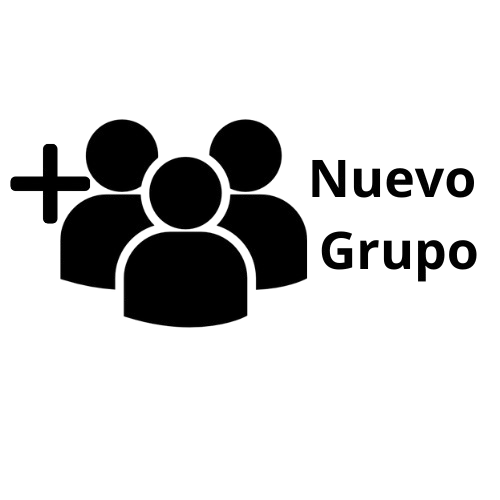
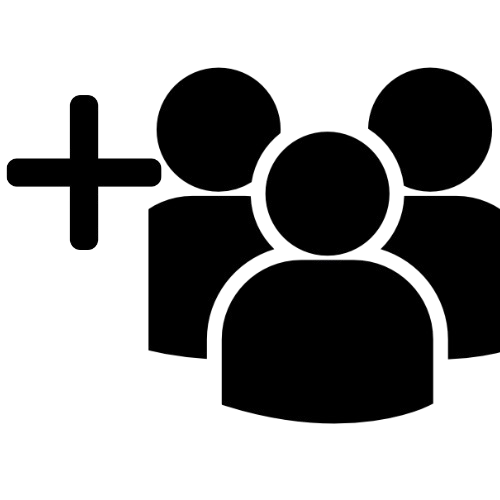
Added the buton of new group and new friend (not programed)

diff --git a/Split Wise Project/Form_Friends.Designer.cs b/Split Wise Project/Form_Friends.Designer.cs
@@ -28,31 +28,34 @@
         /// </summary>
         private void InitializeComponent()
         {
-            button1 = new Button();
+            pictureBox1 = new PictureBox();
+            ((System.ComponentModel.ISupportInitialize)pictureBox1).BeginInit();
             SuspendLayout();
             // 
-            // button1
+            // pictureBox1
             // 
-            button1.Location = new Point(137, 84);
-            button1.Name = "button1";
-            button1.Size = new Size(75, 23);
-            button1.TabIndex = 0;
-            button1.Text = "button1";
-            button1.UseVisualStyleBackColor = true;
+            pictureBox1.Image = Properties.Resources.But_New_Friend;
+            pictureBox1.Location = new Point(255, 265);
+            pictureBox1.Name = "pictureBox1";
+            pictureBox1.Size = new Size(65, 50);
+            pictureBox1.SizeMode = PictureBoxSizeMode.Zoom;
+            pictureBox1.TabIndex = 1;
+            pictureBox1.TabStop = false;
             // 
             // Form_Friends
             // 
             AutoScaleDimensions = new SizeF(7F, 15F);
             AutoScaleMode = AutoScaleMode.Font;
-            ClientSize = new Size(366, 325);
-            Controls.Add(button1);
+            ClientSize = new Size(320, 314);
+            Controls.Add(pictureBox1);
             Name = "Form_Friends";
             Text = "Form_Friends";
+            ((System.ComponentModel.ISupportInitialize)pictureBox1).EndInit();
             ResumeLayout(false);
         }
 
         #endregion
 
-        private Button button1;
+        private PictureBox pictureBox1;
     }
 }

diff --git a/Split Wise Project/Properties/Resources.Designer.cs b/Split Wise Project/Properties/Resources.Designer.cs
@@ -99,5 +99,35 @@ namespace Split_Wise_Project.Properties {
                 return ((System.Drawing.Bitmap)(obj));
             }
         }
+        
+        /// <summary>
+        ///   Looks up a localized resource of type System.Drawing.Bitmap.
+        /// </summary>
+        internal static System.Drawing.Bitmap But_New_Friend {
+            get {
+                object obj = ResourceManager.GetObject("But_New_Friend", resourceCulture);
+                return ((System.Drawing.Bitmap)(obj));
+            }
+        }
+        
+        /// <summary>
+        ///   Looks up a localized resource of type System.Drawing.Bitmap.
+        /// </summary>
+        internal static System.Drawing.Bitmap But_New_Group {
+            get {
+                object obj = ResourceManager.GetObject("But_New_Group", resourceCulture);
+                return ((System.Drawing.Bitmap)(obj));
+            }
+        }
+        
+        /// <summary>
+        ///   Looks up a localized resource of type System.Drawing.Bitmap.
+        /// </summary>
+        internal static System.Drawing.Bitmap But_New_Group1 {
+            get {
+                object obj = ResourceManager.GetObject("But_New_Group1", resourceCulture);
+                return ((System.Drawing.Bitmap)(obj));
+            }
+        }
     }
 }

diff --git a/Split Wise Project/Form_Groups.Designer.cs b/Split Wise Project/Form_Groups.Designer.cs
@@ -34,9 +34,11 @@
             // 
             // pictureBox1
             // 
-            pictureBox1.Location = new Point(12, 66);
+            pictureBox1.Image = Properties.Resources.But_New_Group1;
+            pictureBox1.Location = new Point(243, 252);
             pictureBox1.Name = "pictureBox1";
-            pictureBox1.Size = new Size(296, 20);
+            pictureBox1.Size = new Size(65, 50);
+            pictureBox1.SizeMode = PictureBoxSizeMode.Zoom;
             pictureBox1.TabIndex = 0;
             pictureBox1.TabStop = false;
             // 
